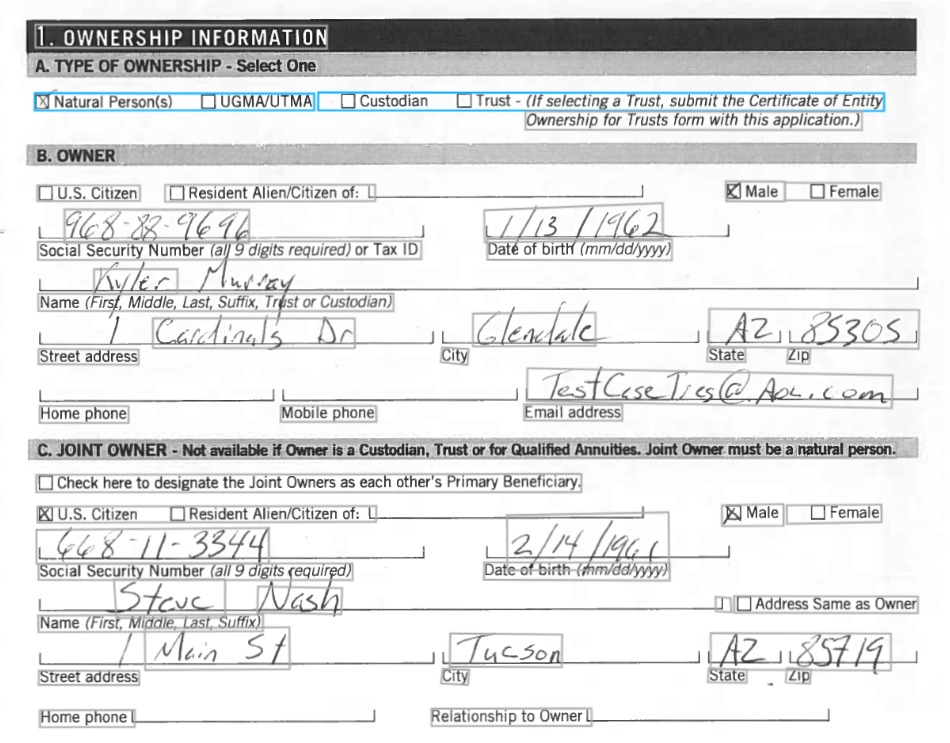
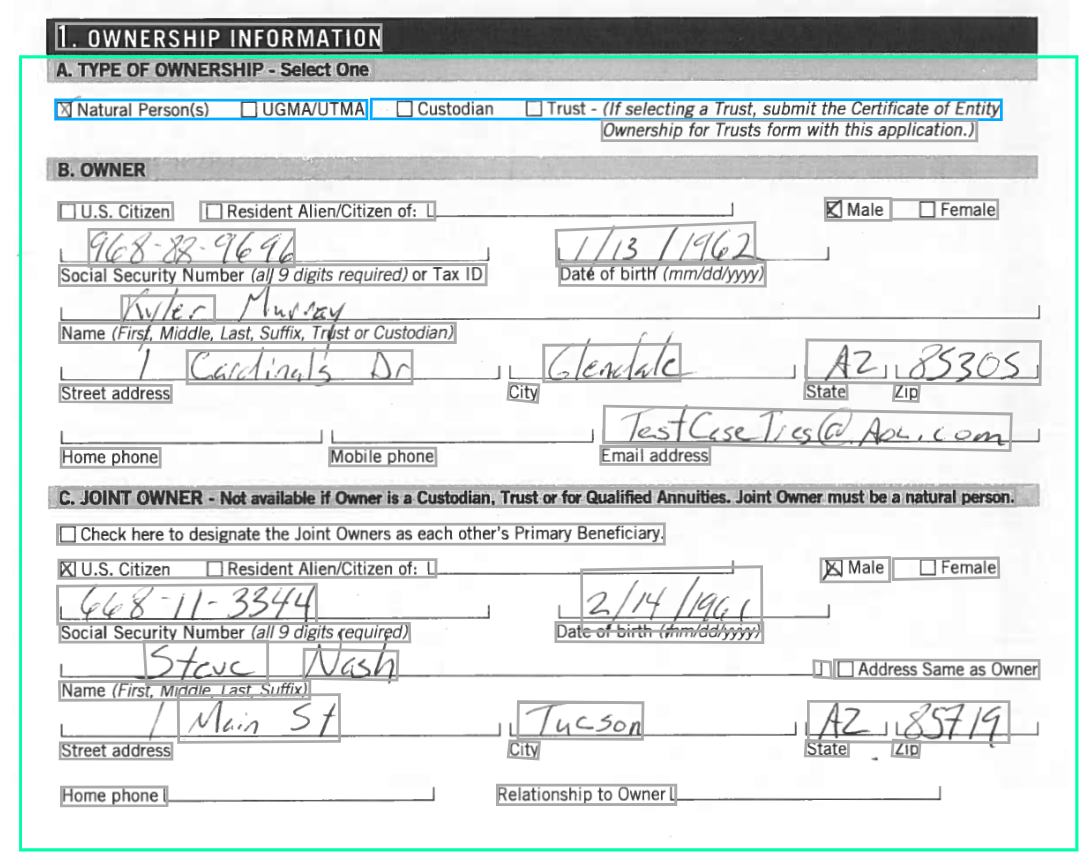
multimodal changes

diff --git a/readme-sync/v0/senseml-reference/3000 - llm-based-methods/1500 - query-group.md b/readme-sync/v0/senseml-reference/3000 - llm-based-methods/1500 - query-group.md
@@ -156,7 +156,7 @@ The following example shows using a multimodal LLM to extract from a scanned doc
   "preprocessors": [
     /* Returns confidence signals, or LLM accuracy qualifications,
        for all supported fields. Note that confidence signals aren't supported
-       for fields using the Multimodal Engine parameter */
+       for the Multimodal Engine parameter */
     {
       "type": "nlp",
       "confidenceSignals": true
@@ -164,6 +164,10 @@ The following example shows using a multimodal LLM to extract from a scanned doc
   ],
   "fields": [
     {
+      /* use an anchor match to locate the 
+         region, or relevant document excerpt,
+          to send as an image to the multimodal LLM */
+      "anchor": "ownership information",
       "method": {
         "id": "queryGroup",
         /* Use a multimodal LLM to troubleshoot
@@ -171,15 +175,21 @@ The following example shows using a multimodal LLM to extract from a scanned doc
            This 1-step option avoids advanced configuration of the defaults.
              */
         "multimodalEngine": {
-          /* Automatically selects the "context", or relevant excerpt,
-           from the document to send as an image to the multimodal LLM.
-             */
-          "region": "automatic"
+          /* manually specify the region's dimensions in inches 
+         relative to the anchor. Use the green region overlay in the
+         rendered PDF to determine the dimensions */
+          "region": {
+            "start": "below",
+            "width": 8,
+            "height": 6,
+            "offsetX": -1.5,
+            "offsetY": 0.05
+          }
         },
         "queries": [
           {
             "id": "ownership_type",
-            "description": "What is the type of ownership?",
+            "description": "What is type of ownership?",
             "type": "string"
           },
           {
@@ -386,6 +396,8 @@ How location highlighting works
 In the Sensible Instruct editor, you can click the search icon to the right of the output of a query field to view its source text in the document. 
 
 ![Click to enlarge](https://raw.githubusercontent.com/sensible-hq/sensible-docs/main/readme-sync/assets/v0/images/final/location.png)
+
+In the SenseML editor, Sensible highlights source text in the document using a [blue box](doc:color). 
 
 For an overview of how Sensible finds the source text in the document for the LLM's response, see the following steps:
 
